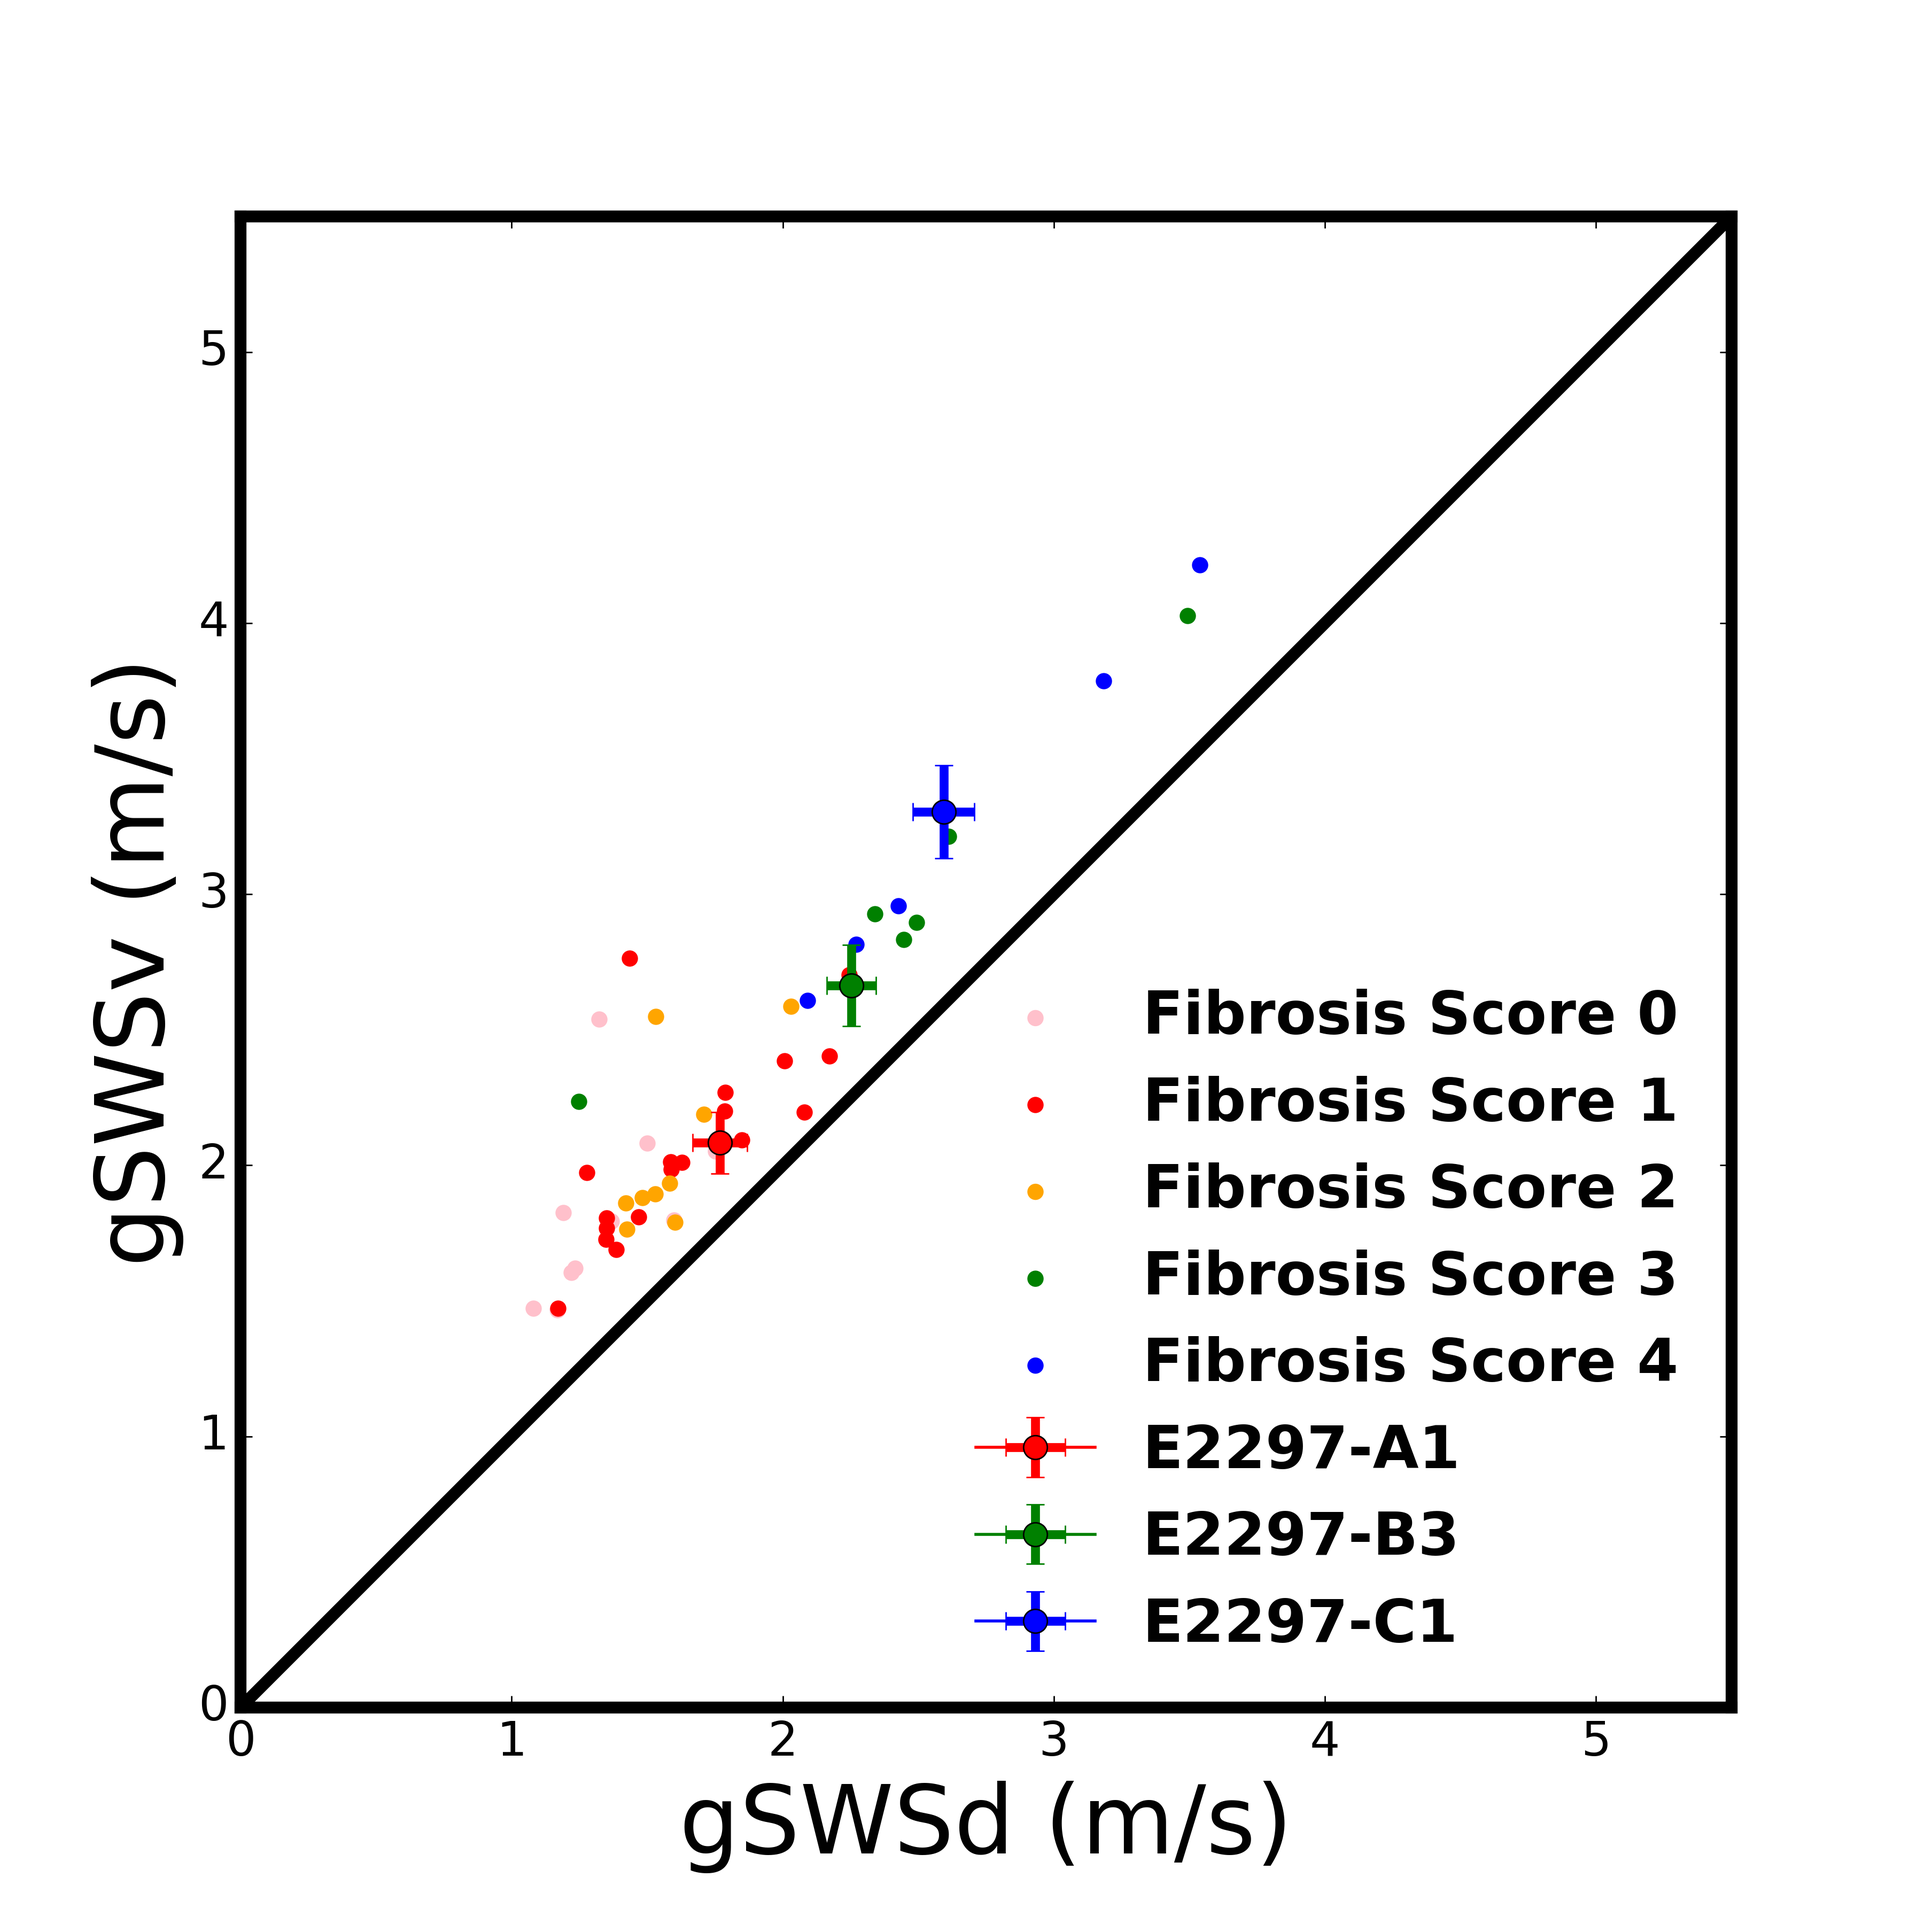
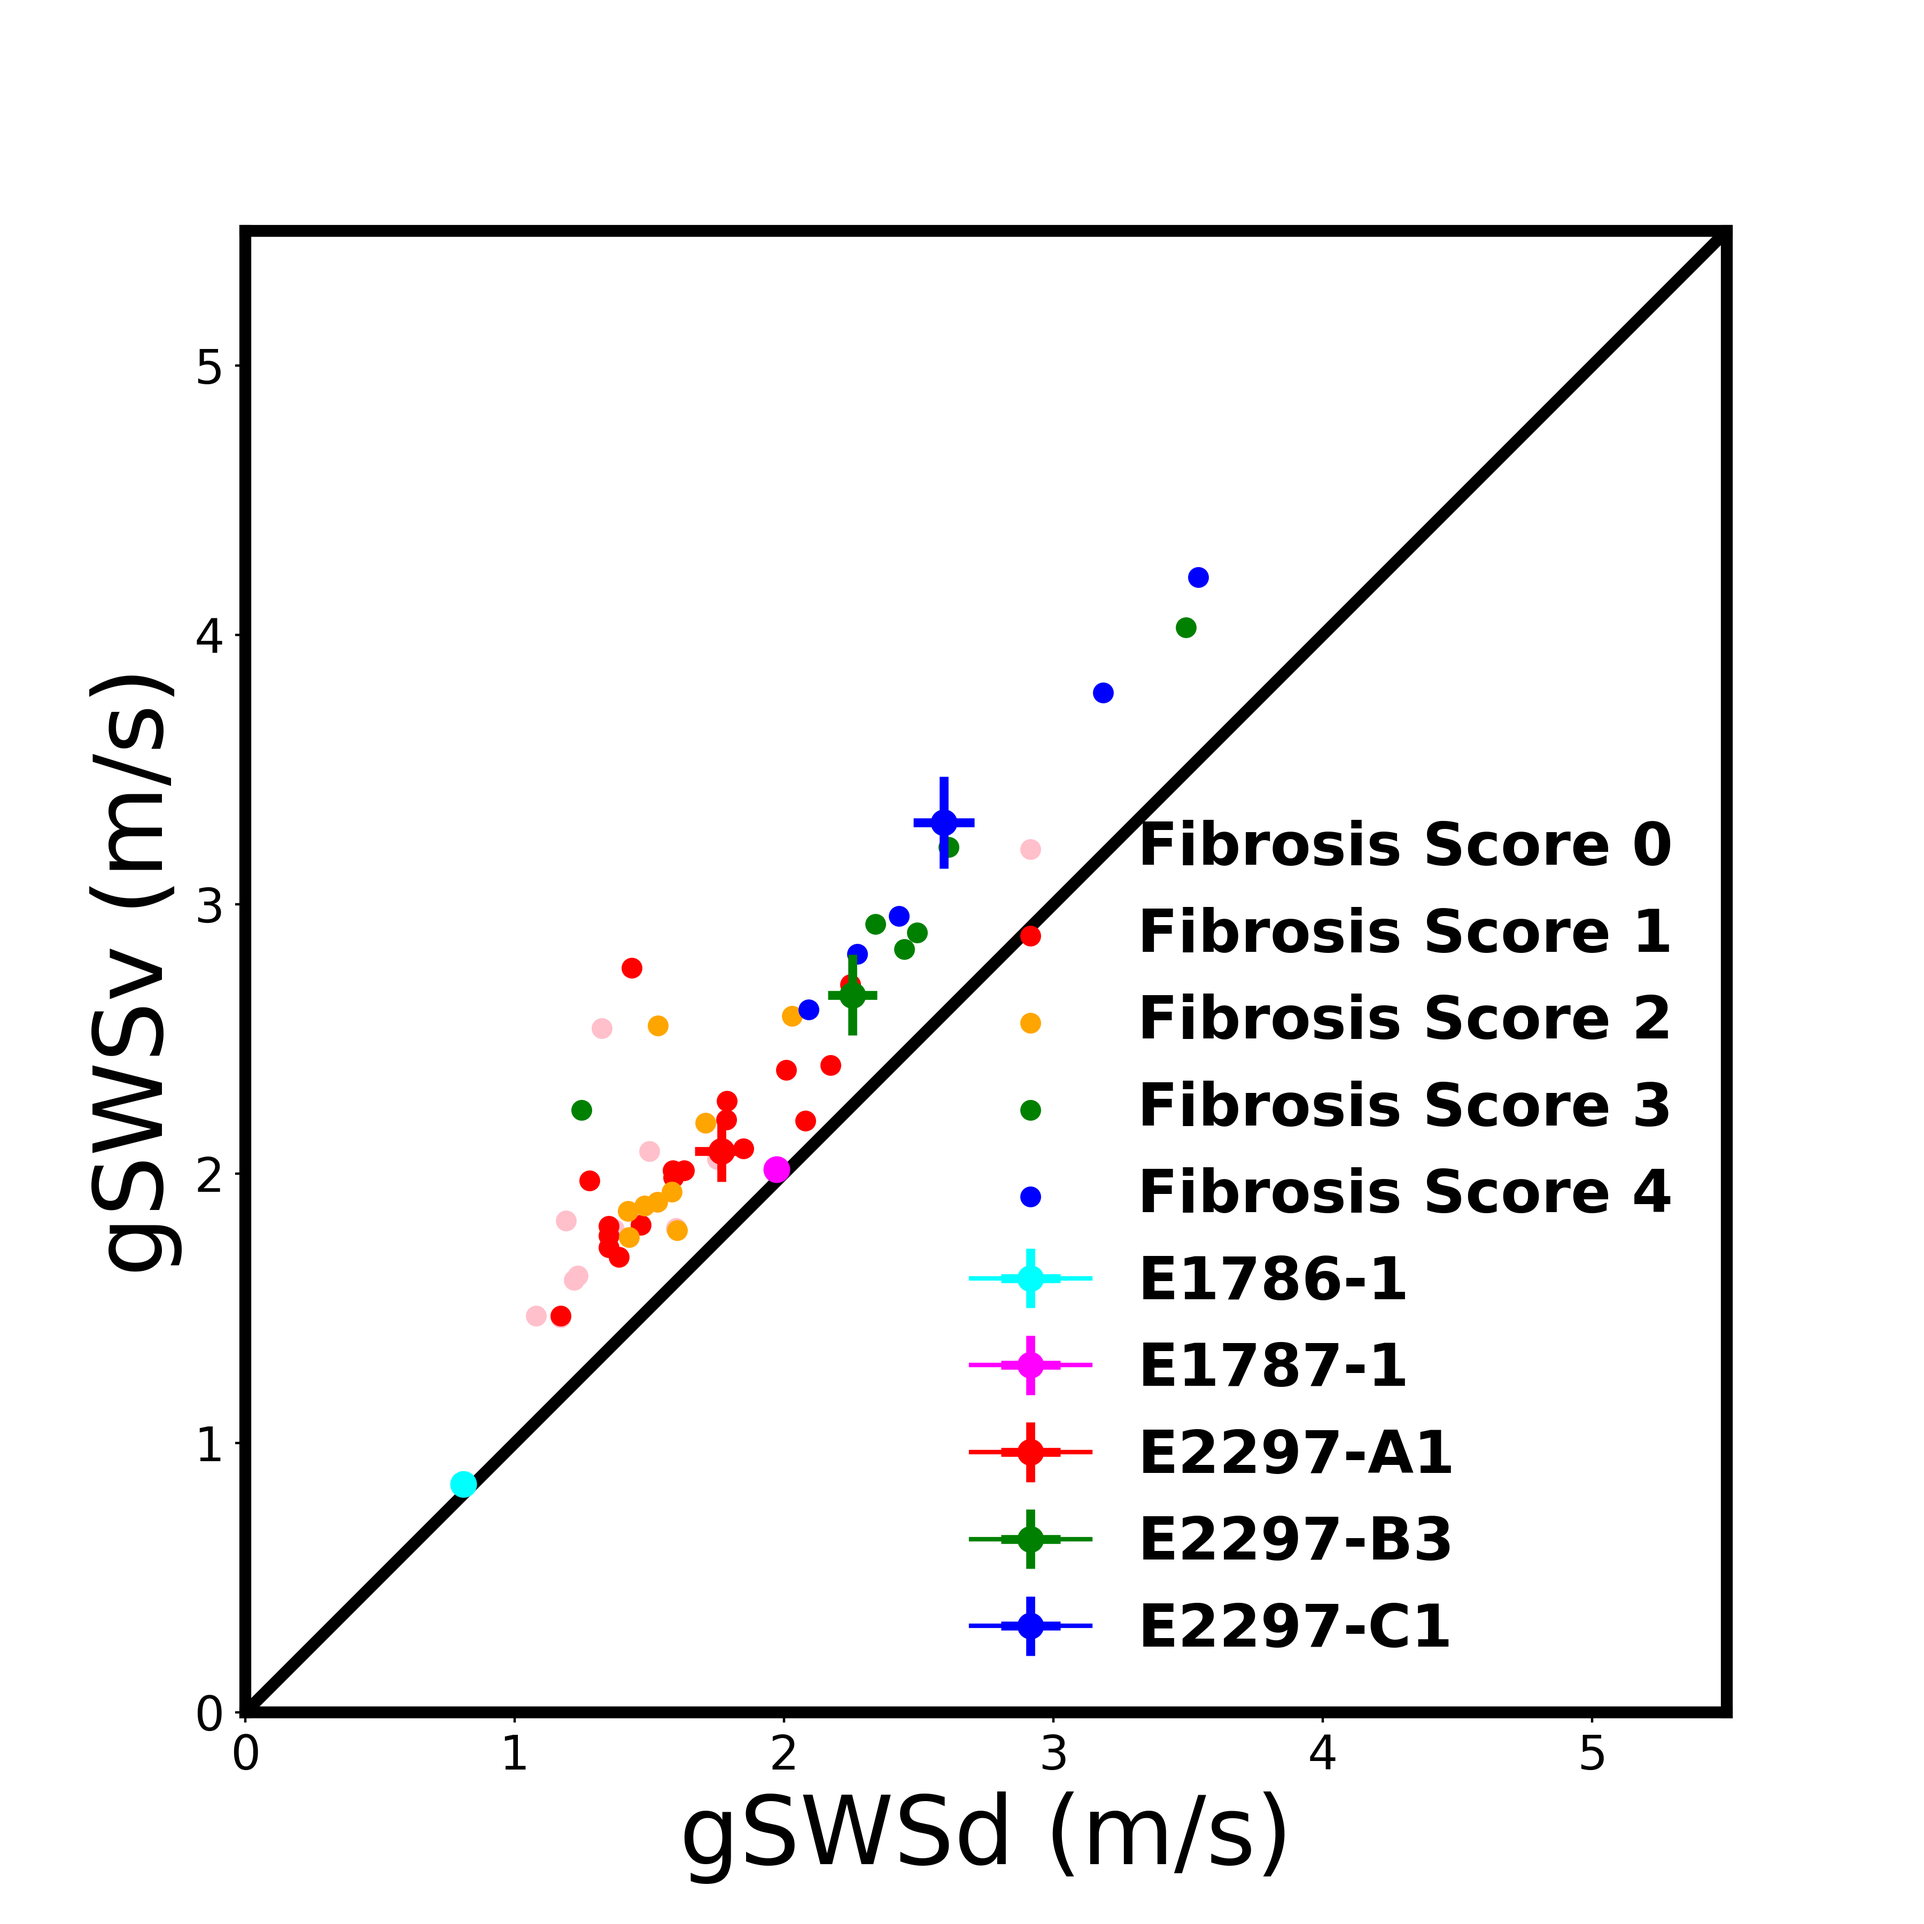
update plot code to include Phase I phantom data

diff --git a/figs/phantoms_humans/compareliverlookupPatientAvgMark2.py b/figs/phantoms_humans/compareliverlookupPatientAvgMark2.py
@@ -289,6 +289,8 @@ plt.scatter(goodDispsF1, goodVelsF1, color = 'red', label='Fibrosis Score 1')
 plt.scatter(goodDispsF2, goodVelsF2, color = 'orange', label='Fibrosis Score 2')
 plt.scatter(goodDispsF3, goodVelsF3, color = 'green', label='Fibrosis Score 3')
 plt.scatter(goodDispsF4, goodVelsF4, color = 'blue', label='Fibrosis Score 4')
+plt.errorbar(0.8094, 0.8471, yerr=0.0057, xerr=0.0064, elinewidth=3, marker='o', ms=8, color='cyan', label='E1786-1')
+plt.errorbar(1.9714, 2.0150, yerr=0.0202, xerr=0.0180, elinewidth=3, marker='o', ms=8, color='magenta', label='E1787-1')
 plt.errorbar(1.7685, 2.0835, yerr=0.1132, xerr=0.1005, elinewidth=3, marker='o', ms=8, color='red', label='E2297-A1')
 plt.errorbar(2.2539, 2.6633, yerr=0.1495, xerr=0.0905, elinewidth=3, marker='o', ms=8, color='green', label='E2297-B3')
 plt.errorbar(2.5937, 3.3036, yerr=0.1711, xerr=0.1134, elinewidth=3, marker='o', ms=8, color='blue', label='E2297-C1')
